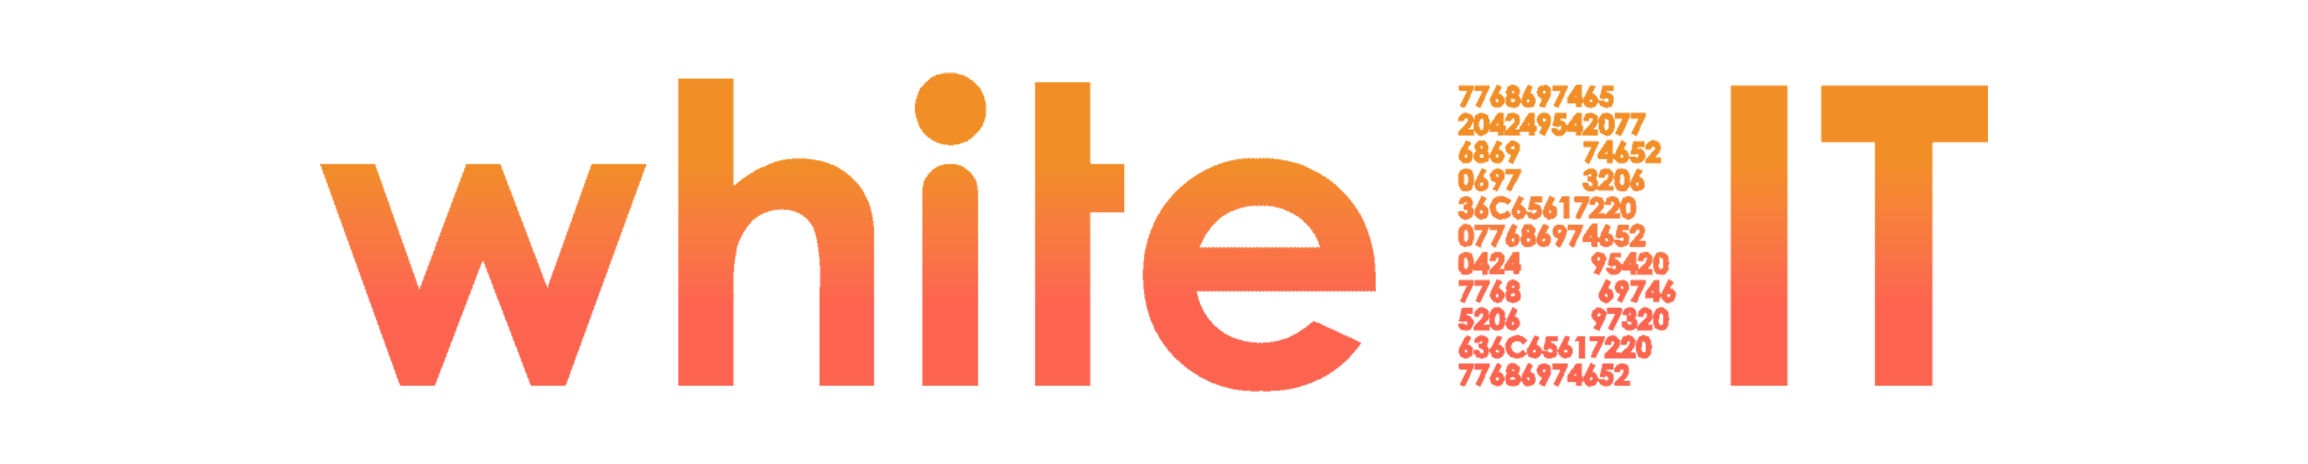
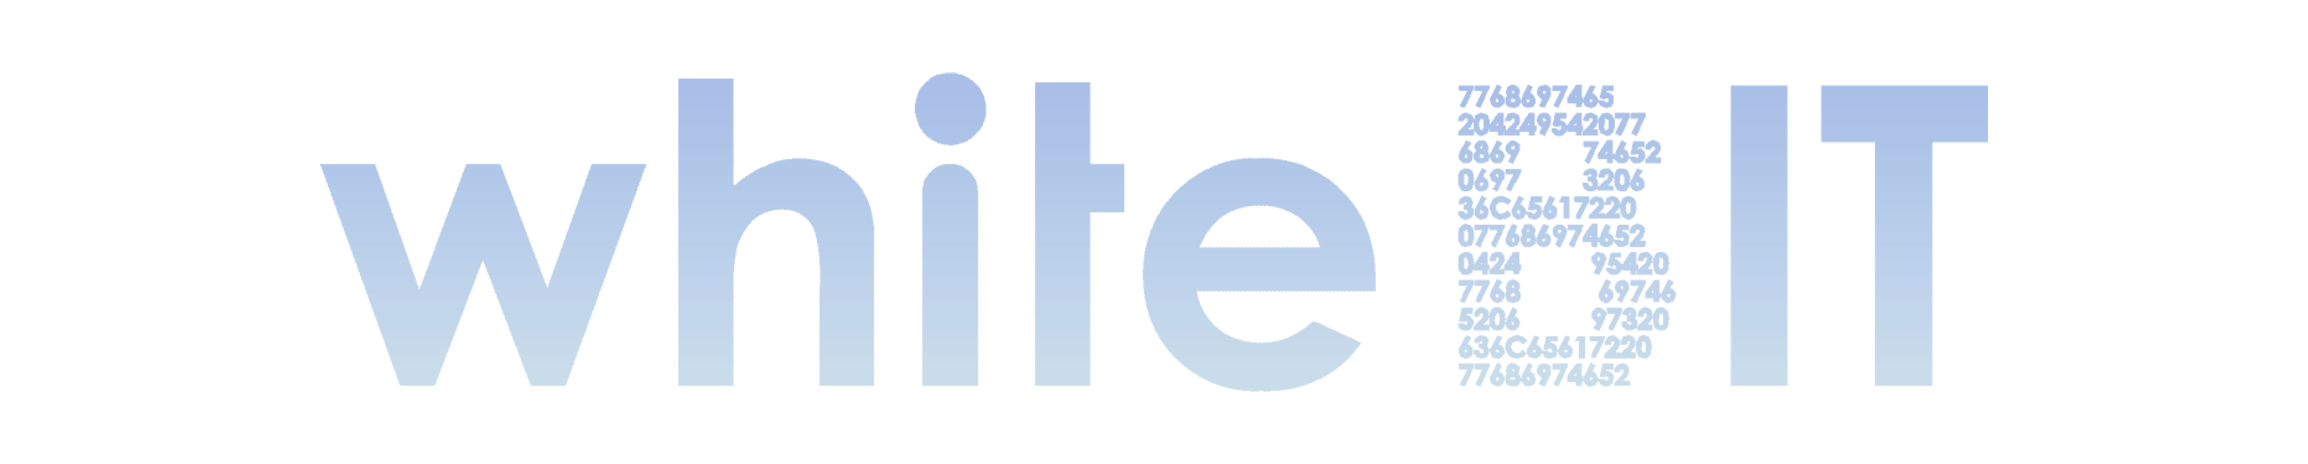
Update ExchangeDisplay and styles12

Changed region(s): [[0.1248, 0.1509, 0.8735, 0.8448]]

diff --git a/src/components/EnergyBar.css b/src/components/EnergyBar.css
@@ -51,7 +51,7 @@
 
 .energy-fill {
   height: 100%;
-  background: linear-gradient(to right, #cbefe0 0%, #b5dbcb 50%, #a3d7ce 100%);
+  background: linear-gradient(to right, #fcfcfc 0%, #c1d7e5 50%, #a2c3d9 100%);
   transition: width 0.3s ease;
   position: absolute; /* Додайте цю властивість */
   left: 0; /* Додайте цю властивість */

diff --git a/src/App.css b/src/App.css
@@ -22,7 +22,7 @@ body, html {
   height: 100%;
   max-width: 414px;
   max-height: 896px;
-  background: radial-gradient(circle, #c9e2ca 0%, #96d5d2 100%);
+  background: linear-gradient(to bottom, #a2c6dc, #ffffff, #a1c4da);
   display: flex;
   flex-direction: column;
   align-items: center;
